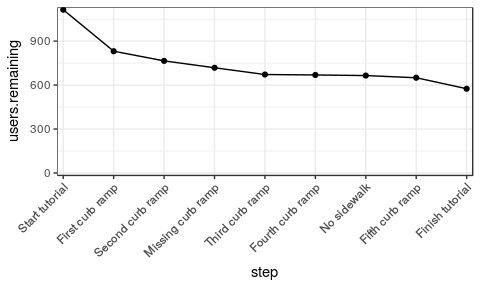
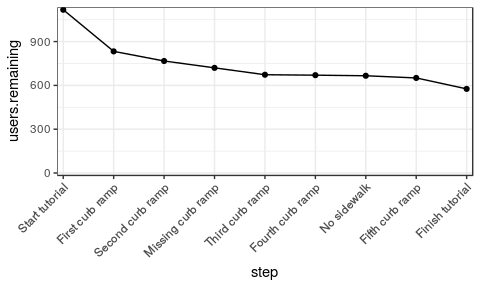
separated turk and volunteer dropoff queries

diff --git a/R/stats_for_paper.html b/R/stats_for_paper.html
@@ -556,7 +556,7 @@ April 17, 2018</p>
 <p>Among all the data collected in DC, how much of DC is labeled by multiple users and what is the disagreement among them? (see comment in Outline document for details on implementation)</p>
 <p>A total of 38.9% of streets were audited by multiple users.</p>
 <h3 id="tutorial-dropoffs">Tutorial dropoffs</h3>
-<p>Below we look at how users drop off in the tutorial. Because most people going through the tutorial have not yet registered, we simply use IP address as a &quot;user&quot; for the purpose of analyzing the tutorial in particular. We consider only users who clicked on the &quot;Let's get started!&quot; button on the tutorial page as having started the tutorial. To simplify the analysis, we are looking at only tutorial attempts after the small additions we made to the tutorial last summer (so the data starts July 10th, 2017).</p>
+<p>Below we look at how users drop off in the tutorial. Because most volunteers going through the tutorial have not yet registered, we simply use IP address as a &quot;user&quot; for the purpose of analyzing the tutorial in particular; however, turkers are automatically logged in immediately, so we use turker id for them. We consider only users who clicked on the &quot;Let's get started!&quot; button on the tutorial page as having started the tutorial. To simplify the analysis, we are looking at only tutorial attempts after the small additions we made to the tutorial last summer (so the data starts July 10th, 2017).</p>
 <p>The steps in the graph below are as follows:</p>
 <ol>
 <li>Clicked &quot;Let's get started!&quot;</li>
@@ -569,10 +569,10 @@ April 17, 2018</p>
 <li>Placed fifth curb ramp label and correctly rated severity</li>
 <li>Took step forward and clicked through all dialog boxes to finish tutorial</li>
 </ol>
-<p>Of the 1114 people who started the tutorial, 831 finished the first step (75%), and 575 completed the tutorial (52%).</p>
[1 lines of base64/hex data omitted]
+<p>Of the 1118 people who started the tutorial, 833 finished the first step (75%), and 576 completed the tutorial (52%).</p>
[1 lines of base64/hex data omitted]
 <h3 id="user-dropoffs">User dropoffs</h3>
-<p>Below we look at how users drop off after finishing the tutorial. For consistency with the tutorial analysis, we use IP address to denote a user (the 575 IP addresses who finished the tutorial in the previous section are the same 575 IPs that we are looking at below). As such, we are looking at only those who finished the tutorial after July 10th, 2017.</p>
+<p>Below we look at how users drop off after finishing the tutorial. For consistency with the tutorial analysis, we use IP address to denote a volunteer user and turker id to differentiate between turkers (the 576 IP addresses and turker ids who finished the tutorial in the previous section are the same 576 IPs/IDs that we are looking at below). As such, we are looking at only those who finished the tutorial after July 10th, 2017.</p>
 <p>We also only counted missions completed in the two hours after finishing the tutorial. There was not a sizeable difference when looking at 1 hour, 2 hours, or 48 hours after finishing the tutorial, so I think that 2 hours works fine.</p>
 <p>The steps in the graph below are as follows:</p>
 <ol>
@@ -582,8 +582,8 @@ April 17, 2018</p>
 <li>Completed second mission</li>
 <li>And so on...</li>
 </ol>
-<p>Of the 575 people who finished the tutorial, 444 took a step (77%), 284 finished at least one mission afterwards (49%), 163 completed at least two missions afterwards (28%), and 22 did at least 10 missions afterwards (4%).</p>
[1 lines of base64/hex data omitted]
+<p>Of the 576 people who finished the tutorial, 445 took a step (77%), 285 finished at least one mission afterwards (49%), 164 completed at least two missions afterwards (28%), and 24 did at least 10 missions afterwards (4%).</p>
[1 lines of base64/hex data omitted]
 <h1 id="turk-study">Turk Study</h1>
 <p>Update: This is now all of the data. There used to be 19 anonymous user routes, but three of them actually had no labels placed by the anonymous user (we had forgotten to check beforehand), thus we have only 16.</p>
 <p>Even though 5 turkers did each route, the high level results for individual turkers looks only at the first turker to complete each set of routes. This makes aggregate stats more even, and a fairer comparison across user groups. (but maybe we should actually use all turkers when not aggregating, actually...)</p>

diff --git a/R/stats_for_paper.md b/R/stats_for_paper.md
@@ -135,7 +135,7 @@ A total of 38.9% of streets were audited by multiple users.
 
 ### Tutorial dropoffs
 
-Below we look at how users drop off in the tutorial. Because most people going through the tutorial have not yet registered, we simply use IP address as a "user" for the purpose of analyzing the tutorial in particular. We consider only users who clicked on the "Let's get started!" button on the tutorial page as having started the tutorial. To simplify the analysis, we are looking at only tutorial attempts after the small additions we made to the tutorial last summer (so the data starts July 10th, 2017).
+Below we look at how users drop off in the tutorial. Because most volunteers going through the tutorial have not yet registered, we simply use IP address as a "user" for the purpose of analyzing the tutorial in particular; however, turkers are automatically logged in immediately, so we use turker id for them. We consider only users who clicked on the "Let's get started!" button on the tutorial page as having started the tutorial. To simplify the analysis, we are looking at only tutorial attempts after the small additions we made to the tutorial last summer (so the data starts July 10th, 2017).
 
 The steps in the graph below are as follows:
 
@@ -149,13 +149,13 @@ The steps in the graph below are as follows:
 8.  Placed fifth curb ramp label and correctly rated severity
 9.  Took step forward and clicked through all dialog boxes to finish tutorial
 
-Of the 1114 people who started the tutorial, 831 finished the first step (75%), and 575 completed the tutorial (52%).
+Of the 1118 people who started the tutorial, 833 finished the first step (75%), and 576 completed the tutorial (52%).
 
 ![](stats_for_paper_files/figure-markdown_github/public.deployment.tutorial.dropoff.plots-1.png)
 
 ### User dropoffs
 
-Below we look at how users drop off after finishing the tutorial. For consistency with the tutorial analysis, we use IP address to denote a user (the 575 IP addresses who finished the tutorial in the previous section are the same 575 IPs that we are looking at below). As such, we are looking at only those who finished the tutorial after July 10th, 2017.
+Below we look at how users drop off after finishing the tutorial. For consistency with the tutorial analysis, we use IP address to denote a volunteer user and turker id to differentiate between turkers (the 576 IP addresses and turker ids who finished the tutorial in the previous section are the same 576 IPs/IDs that we are looking at below). As such, we are looking at only those who finished the tutorial after July 10th, 2017.
 
 We also only counted missions completed in the two hours after finishing the tutorial. There was not a sizeable difference when looking at 1 hour, 2 hours, or 48 hours after finishing the tutorial, so I think that 2 hours works fine.
 
@@ -167,7 +167,7 @@ The steps in the graph below are as follows:
 4.  Completed second mission
 5.  And so on...
 
-Of the 575 people who finished the tutorial, 444 took a step (77%), 284 finished at least one mission afterwards (49%), 163 completed at least two missions afterwards (28%), and 22 did at least 10 missions afterwards (4%).
+Of the 576 people who finished the tutorial, 445 took a step (77%), 285 finished at least one mission afterwards (49%), 164 completed at least two missions afterwards (28%), and 24 did at least 10 missions afterwards (4%).
 
 ![](stats_for_paper_files/figure-markdown_github/public.deployment.user.dropoff.plot-1.png)
 
